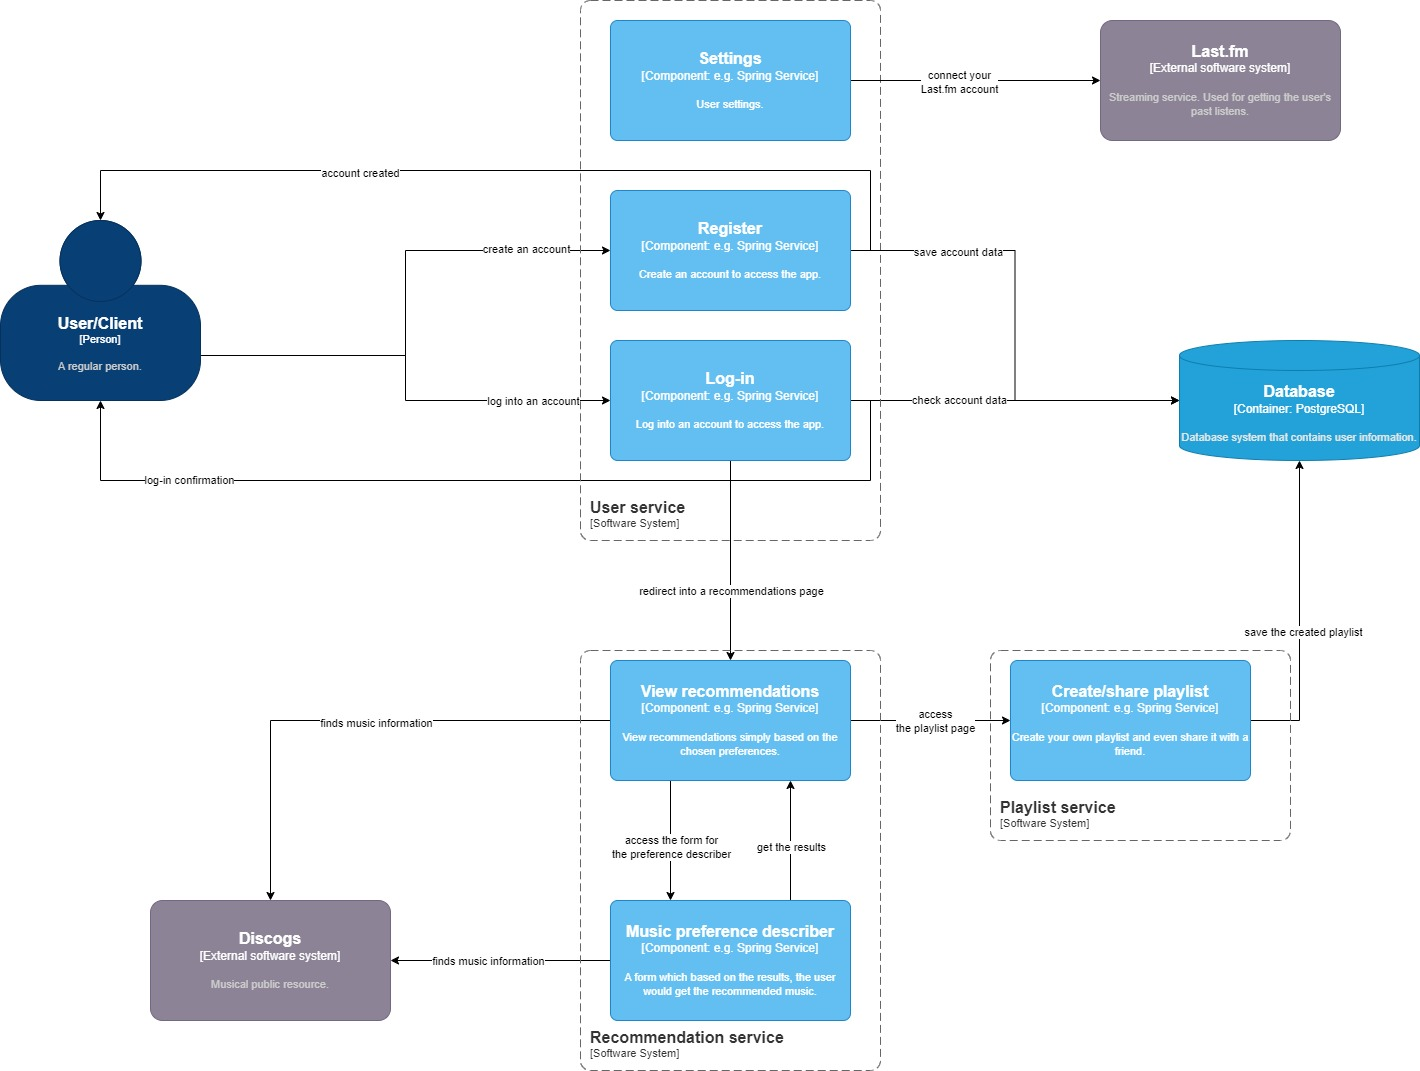
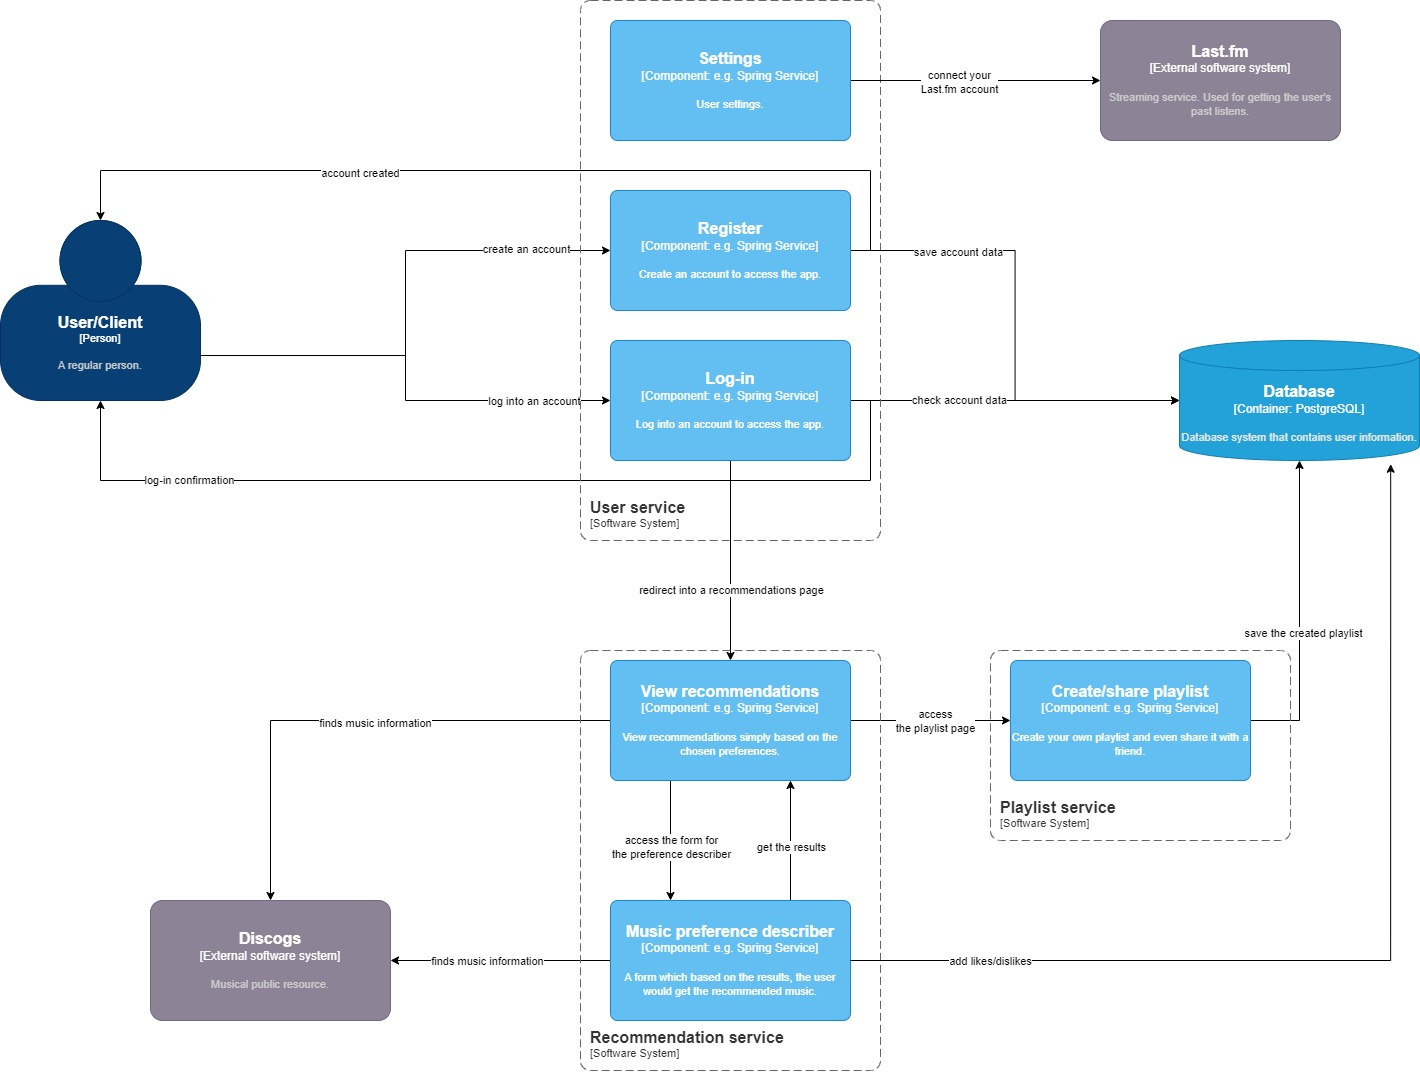
updated docs

diff --git a/docs/scholarly.html b/docs/scholarly.html
@@ -158,25 +158,33 @@
       <section id="database-architecture">
         <h3><span>3.4 </span>Database architecture</h3>
         <p>
-          
+          <div style="text-align:center">
+            <img src="diagrams/vire-db.jpg" width="100%">
+            <figcaption style="margin-bottom:40px; margin-top:10px"><b>Database diagram</b></figcaption>
+          </div>
         </p>
       </section>
       <section id="user-module">
         <h3><span>3.5 </span>User module</h3>
         <p>
-          
+          The user module allows users to register and log into the app. Entering into the app enables users 
+          to view recommendations, select their preferences, as well as create their own playlists.
         </p>
       </section>
       <section id="Recommendation service">
         <h3><span>3.6 </span>Recommendation service</h3>
         <p>
-          
+          We suggested a recommendation service that is based on the likes/dislikes of various artists and genres and 
+          purchases (in any format) of songs and albums. The user simply searches for either the artist's/band's name
+          or the genre in the pages dedicated for likes, dislikes and purchases. Based on the saved preferences, the
+          recommendations are shown below.
         </p>
       </section>
       <section id="playlist-making">
         <h3><span>3.7 </span>Playlist making</h3>
         <p>
-          
+          The playlist service needs data about who created it and which songs are included with it, along with its 
+          relevant details (artist, album, year etc.).
         </p>
       </section>
     </section>
@@ -201,7 +209,31 @@
         <b>The Music Ontology</b> provides a vocabulary for publishing and linking a wide range of music-related data on the Web. Music Ontology data 
         can be published by anyone as part of a web site or an API and linked with existing data, therefore creating a music-related web of data.
         <br>
-        The Music Ontology Specification is useful for obtaining concepts and properties that describe music on the Semantic Web. 
+        To operate with this vocabulary, we use <b>RDF</b> (Resource Description Framework) to identify relationships between each characteristic.
+        With this, The Music Ontology Specification is useful for obtaining concepts and properties that describe music on the Semantic Web. In order to use it, the 
+        following namespaces must be added:
+        <pre>
+        @prefix mo: http://purl.org/ontology/mo/ .
+        @prefix dc: http://purl.org/dc/elements/1.1/ .
+        @prefix xsd: http://www.w3.org/2001/XMLSchema# .
+        @prefix tl: http://purl.org/NET/c4dm/timeline.owl# .
+        @prefix event: http://purl.org/NET/c4dm/event.owl# .
+        @prefix foaf: http://xmlns.com/foaf/0.1/ .
+        @prefix rdfs: http://www.w3.org/2000/01/rdf-schema# .
+        </pre>
+        <br>
+        Here is an example of how to describe a track from a vinyl (taken from .ttl):
+        <pre>
+          @prefix dc: http://purl.org/dc/elements/1.1/ .
+          @prefix ns1: http://purl.org/ontology/mo/ .
+          @prefix xsd: http://www.w3.org/2001/XMLSchema# .
+
+        http://purl.org/ontology/mo/#track-Diamond a ns1:Track ;
+            dc:title "Diamond" ;
+            dc:year 2022 ;
+            ns1:artist "Black Scorpion Music" ;
+            ns1:genre "Electronic" .
+        </pre>
       </p>
     </section>
     <section id="frontend-design">
